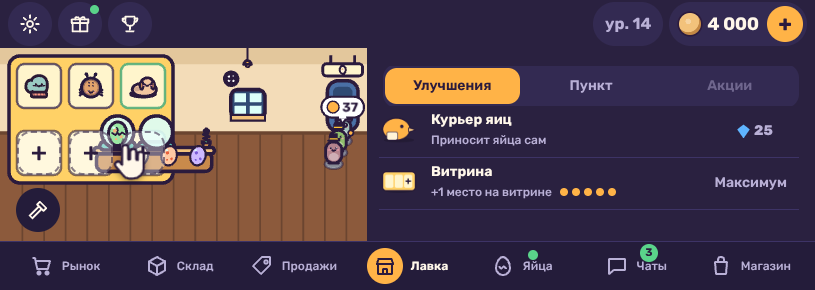
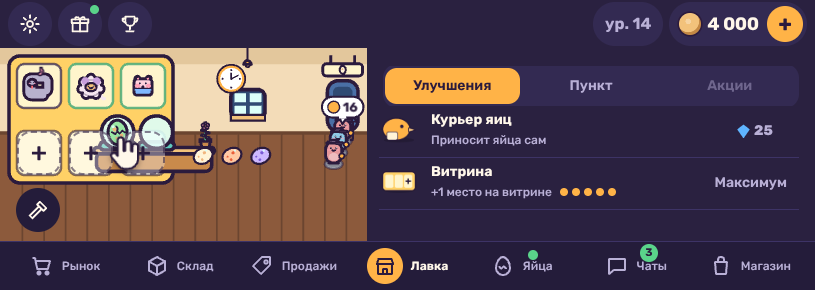
M6: правки по ревизорам — часы, цветок, мышь и парад видны, поле имени в настройках боком; лимит монеты за щекотку, тексты реплик и имени (сессия по расписанию)
Claude-Session: https://claude.ai/code/session_01ECsQGnK1hD5CRBxUSvu9BH

diff --git a/src/scene/things.ts b/src/scene/things.ts
@@ -77,7 +77,10 @@ export function createThings(c: Colors): Things {
         flowerG.circle(f.x + Math.cos(a) * r * 0.3, top + Math.sin(a) * r * 0.3, r * 0.24).fill(c.blush).stroke({ width: w * 0.5, color: c.outline });
       }
       flowerG.circle(f.x, top, r * 0.18).fill(c.uiAccent).stroke({ width: w * 0.5, color: c.outline });
-    } else flowerG.circle(f.x, top, r * 0.12).fill(c.uiGood).stroke({ width: w * 0.5, color: c.outline });
+    } else {
+      // A bright bud from the start (the usability review: «a dark squiggle»).
+      flowerG.ellipse(f.x, top - r * 0.05, r * 0.2, r * 0.26).fill(c.blush).stroke({ width: w * 0.5, color: c.outline });
+    }
   };
 
   const drawHands = (): void => {
@@ -85,11 +88,12 @@ export function createThings(c: Colors): Things {
     if (!l || clockG.visible === false) return;
     const k = l.decor.clock;
     const w = l.outline;
+    const R = clockG.visible ? Math.max(k.r * 1.3, 14) : k.r;
     const wobble = tickLeft > 0 ? Math.sin(tickLeft * 30) * 0.25 : 0;
     const a = -Math.PI / 2 + Math.PI * 0.35 + wobble;
-    handG.moveTo(k.x, k.y).lineTo(k.x + Math.cos(a) * k.r * 0.55, k.y + Math.sin(a) * k.r * 0.55).stroke({ width: w * 0.7, color: c.outline, cap: 'round' });
-    handG.moveTo(k.x, k.y).lineTo(k.x, k.y - k.r * 0.38).stroke({ width: w * 0.7, color: c.outline, cap: 'round' });
-    handG.circle(k.x, k.y, w * 0.6).fill(c.outline);
+    handG.moveTo(k.x, k.y).lineTo(k.x + Math.cos(a) * R * 0.55, k.y + Math.sin(a) * R * 0.55).stroke({ width: Math.max(1, R * 0.09), color: c.outline, cap: 'round' });
+    handG.moveTo(k.x, k.y).lineTo(k.x, k.y - R * 0.4).stroke({ width: Math.max(1.2, R * 0.12), color: c.outline, cap: 'round' });
+    handG.circle(k.x, k.y, Math.max(1, R * 0.08)).fill(c.outline);
   };
 
   const drawCloud = (g: Graphics, x: number, y: number, s: number): void => {
@@ -136,11 +140,13 @@ export function createThings(c: Colors): Things {
       clockG.clear();
       clockG.visible = !cuckoo;
       if (!cuckoo) {
-        clockG.circle(k.x, k.y, k.r * 0.85).fill(c.counter).stroke({ width: w, color: c.outline });
-        clockG.circle(k.x, k.y, k.r * 0.68).fill(c.eyeWhite).stroke({ width: w * 0.6, color: c.outline });
-        for (let i = 0; i < 4; i++) {
-          const a = (Math.PI * i) / 2;
-          clockG.circle(k.x + Math.cos(a) * k.r * 0.52, k.y + Math.sin(a) * k.r * 0.52, w * 0.5).fill(c.outline);
+        // A round wall clock as big as the cuckoo one: a bright rim, a white face, hour marks (the usability review: «a dark dot»).
+        const R = Math.max(k.r * 1.3, 14);
+        clockG.circle(k.x, k.y, R).fill(c.uiAccent).stroke({ width: Math.max(1, w * 0.5), color: c.outline });
+        clockG.circle(k.x, k.y, R * 0.78).fill(c.eyeWhite);
+        for (let i = 0; i < 12; i += 3) {
+          const a = (Math.PI * i) / 6;
+          clockG.circle(k.x + Math.cos(a) * R * 0.62, k.y + Math.sin(a) * R * 0.62, Math.max(1, R * 0.07)).fill(c.outline);
         }
       }
       drawHands();

diff --git a/src/scene/shop.ts b/src/scene/shop.ts
@@ -926,8 +926,10 @@ export function createShopView(app: Application, deps: ShopDeps): ShopView {
         // M6-21: a little grey mouse (it runs along the floor, animateEvent).
         g.ellipse(0, r * 0.55, r * 0.6, r * 0.12).fill({ color: c.outline, alpha: 0.18 });
         g.moveTo(-r * 0.5, r * 0.25).quadraticCurveTo(-r * 0.95, r * 0.1, -r * 0.9, -r * 0.25).stroke({ width: l.outline * 0.6, color: c.outline, cap: 'round' });
-        g.ellipse(0, r * 0.2, r * 0.55, r * 0.35).fill(c.uiMuted).stroke({ width: l.outline * 0.7, color: c.outline });
-        g.circle(r * 0.32, -r * 0.18, r * 0.2).fill(c.uiMuted).stroke({ width: l.outline * 0.6, color: c.outline });
+        // Light on the dark floor, so it is seen at once.
+        g.ellipse(0, r * 0.2, r * 0.55, r * 0.35).fill(c.eyeWhite).stroke({ width: l.outline * 0.7, color: c.outline });
+        g.circle(r * 0.32, -r * 0.18, r * 0.2).fill(c.eyeWhite).stroke({ width: l.outline * 0.6, color: c.outline });
+        g.circle(r * 0.18, -r * 0.38, r * 0.12).fill(c.blush).stroke({ width: l.outline * 0.5, color: c.outline });
         g.circle(r * 0.5, r * 0.15, r * 0.07).fill(c.blush);
         g.circle(r * 0.32, r * 0.08, r * 0.05).fill(c.outline);
       } else if (ev.kind === 'parade') {
@@ -975,9 +977,13 @@ export function createShopView(app: Application, deps: ShopDeps): ShopView {
     for (const box of eventCoins.values()) box.pivot.y = Math.sin(time * 6 + i++) * l.unit * 0.06;
     if (eventThing && eventSpot && (ev.kind === 'mouse' || ev.kind === 'parade')) {
       // M6-21: the mouse runs to and fro along the floor; the eggs roll by the door and tumble.
-      const span = Math.max(l.unit * 2, l.door.x - l.floor.x - l.unit * 1.5);
+      // The free floor: right of the counter and the showcase, left of the door (the whole floor when that is too narrow).
+      const free0 = Math.max(l.counter.x + l.counter.w, l.strip ? 0 : l.showcase.x + l.showcase.w) + eventSpot.r;
+      const free1 = l.door.x - eventSpot.r * 0.5;
+      const x0 = free1 - free0 >= l.unit * 2 ? free0 : l.floor.x + l.unit * 0.75;
+      const span = Math.max(l.unit * 2, free1 - x0);
       const k = ev.kind === 'mouse' ? Math.sin(time * 1.6) : ((time * 0.35) % 1) * 2 - 1;
-      eventThing.x = l.floor.x + l.unit * 0.75 + (span / 2) * (1 + k);
+      eventThing.x = x0 + (span / 2) * (1 + k);
       if (ev.kind === 'mouse') eventThing.scale.x = Math.cos(time * 1.6) >= 0 ? 1 : -1;
       else for (const ch of eventThing.children) if (ch instanceof Graphics) ch.rotation = time * 4;
       eventThing.y = eventSpot.y - Math.abs(Math.sin(time * (ev.kind === 'mouse' ? 14 : 5))) * l.unit * 0.05;

diff --git a/e2e/perf.spec.ts b/e2e/perf.spec.ts
@@ -7,13 +7,14 @@ import { events, open, seedSave } from './helpers.ts';
  * The budgets of docs/02, section 8, on a 4× slower CPU. M4-09: the project runs alone after all the others — next to another test
  * on the same machine the emulated slow CPU measured 6–8 s; alone it stays under the budget (the full verify of M4).
  * RD-04: the first screen on 4G (docs/02: 10 Mbit/s, RTT 100 ms) and CPU ×4 ≤ 5 s; FPS ≥ 30 on CPU ×4; the memory does not grow in
- * 10 minutes of play (@full). RD_SHOTS=1 writes the numbers to docs/evidence/RD/perf.txt.
+ * 10 minutes of play (@full). RD_SHOTS=1 writes the numbers to docs/evidence/RD/perf.txt, PERF_OUT=M6 to docs/evidence/M6/perf.txt.
  * FPS in the cloud is the software WebGL's (SwiftShader draws on the CPU: ~10 FPS even without a slowdown, the page itself idle), not
  * the game's: the check is the game's own main-thread work per drawn frame on CPU ×4 — ≤ 33 ms keeps 30 FPS on a phone whose GPU
  * draws the frame (docs/допущения.md). The tests run one after another in one worker: a neighbour skews a slowed CPU.
  */
 test.describe.configure({ mode: 'default' });
-const evidence = process.env.RD_SHOTS ? resolve(import.meta.dirname, '../docs/evidence/RD/perf.txt') : null;
+// M6-05: PERF_OUT=<milestone> writes to that milestone's evidence (RD_SHOTS=1 — RD's, as before).
+const evidence = process.env.PERF_OUT ? resolve(import.meta.dirname, `../docs/evidence/${process.env.PERF_OUT}/perf.txt`) : process.env.RD_SHOTS ? resolve(import.meta.dirname, '../docs/evidence/RD/perf.txt') : null;
 const note = (line: string) => {
   console.log(line);
   if (!evidence) return;

diff --git a/src/ui/settings.ts b/src/ui/settings.ts
@@ -108,12 +108,7 @@ export function createSettingsWindow(
   });
   codeRow.append(codeInput, codeApply);
 
-  // M6-23 (01b §5.8): the shop's name — a field, «Save» and a soft answer; the name lives in the save.
-  const nameLabel = document.createElement('div');
-  nameLabel.className = 'row name-label';
-  const nameText = document.createElement('span');
-  nameText.dataset.i18n = 'shopname.label';
-  nameLabel.append(nameText);
+  // M6-23 (01b §5.8): the shop's name — a field («Shop name» inside it), «Save» and a soft answer; the name lives in the save.
   const nameRow = document.createElement('div');
   nameRow.className = 'row code-row name-row';
   const nameInput = document.createElement('input');
@@ -140,7 +135,7 @@ export function createSettingsWindow(
   // MU-09: no second main button — «Назад» is dark, the ✕ does the same.
   const back = button('back', 'settings.back');
   overlay.card.append(title, soundRow, vibRow, langRow);
-  if (shopName) overlay.card.append(nameLabel, nameRow, nameAnswer);
+  if (shopName) overlay.card.append(nameRow, nameAnswer);
   if (redeem) overlay.card.append(codeRow, codeAnswer);
   renderCommunity(overlay.card, links, 'settings');
 

diff --git a/src/sim/game.ts b/src/sim/game.ts
@@ -894,6 +894,8 @@ export function createGame(store: GameStore, content: GameContent, rng: Rng): Ga
   const streaks: Record<string, { n: number; at: number }> = {};
   /** M6-20: recent tap times per creature (game seconds), for the tickle. */
   const tickles: Record<string, number[]> = {};
+  /** M6-20: when a pet last paid a tickle coin (game seconds). */
+  const tickledAt: Record<string, number> = {};
 
   function merchantOffer(): MerchantOffer | null {
     const ev = active;
@@ -1865,9 +1867,11 @@ export function createGame(store: GameStore, content: GameContent, rng: Rng): Ga
       while (run.length && clock - run[0]! > tk.sec) run.shift();
       if (run.length >= tk.taps) {
         run.length = 0;
-        st.coins += tk.coins;
-        st.stats.coinsEarned += tk.coins;
-        emit({ type: 'tickle', uid, coins: tk.coins });
+        const paid = clock - (tickledAt[uid] ?? -Infinity) >= tk.cooldownSec ? tk.coins : 0;
+        if (paid) tickledAt[uid] = clock;
+        st.coins += paid;
+        st.stats.coinsEarned += paid;
+        emit({ type: 'tickle', uid, coins: paid });
       }
       if (feed(cr, 1 + effectSum('feedPerTap'), 'tap') || changed) emit({ type: 'change' });
     },

diff --git a/src/ui/mu.css b/src/ui/mu.css
@@ -3418,11 +3418,11 @@ button.mu-card {
 .landscape #ui .overlay[data-overlay='settings'] > .card > .code-answer {
   grid-column: 1 / -1;
 }
-/* M6-23: the shop name sideways — its label, field and answer in the left column, under the language (the promo code keeps the right one). */
-.landscape #ui .overlay[data-overlay='settings'] > .card > .name-label,
+/* M6-23: the shop name sideways — its label, field and answer in the right column under the communities (the left one is full:
+   sound, buzz, language; the usability review: in 815×290 the field fell below the fold). */
 .landscape #ui .overlay[data-overlay='settings'] > .card > .name-row,
 .landscape #ui .overlay[data-overlay='settings'] > .card > [data-name-answer] {
-  grid-column: 1;
+  grid-column: 2;
   grid-row: auto;
 }
 .overlay[data-overlay='settings'] > .card > [data-name-answer]:empty {
@@ -4275,4 +4275,9 @@ button.mu-card {
   .gift-boost .btn-ad {
     grid-column: 1 / -1;
   }
+}
+
+/* M6-23: the shop name is typed as written (the promo code field above it shows capitals). */
+.name-row .code-input {
+  text-transform: none;
 }

diff --git a/src/content/schemas.ts b/src/content/schemas.ts
@@ -491,8 +491,8 @@ export const SecretsFile = v.object({
     ),
     v.minLength(1),
   ),
-  /** M6-20: taps taps on one creature within sec seconds — a tickle: a laugh, a higher jump, coins. */
-  tickle: v.object({ taps: Count, sec: v.pipe(v.number(), v.minValue(0.5)), coins: Money }),
+  /** M6-20: taps taps on one creature within sec seconds — a tickle: a laugh, a higher jump; coins at most once in cooldownSec a pet. */
+  tickle: v.object({ taps: Count, sec: v.pipe(v.number(), v.minValue(0.5)), coins: Money, cooldownSec: v.pipe(v.number(), v.minValue(0)) }),
   /** M6-20: the clock chimes at these hours of the device (0–23, on the hour): every creature gets fed taps of food. */
   /** M6-23 (01b §5.8): the player names the shop — up to maxLength letters; secret names give the find; blocked — FNV hashes of the
    * stop-list words (scripts/stopwords.json via scripts/stopword-hashes.mjs), so the words never ship. */

diff --git a/tests/game-secrets-m6.test.ts b/tests/game-secrets-m6.test.ts
@@ -61,6 +61,13 @@ describe('M6-20 new things and small secrets', () => {
     expect(game.state.coins).toBe(coins + content.secrets.tickle.coins);
     for (let i = 0; i < 9; i++) game.tapCreature('b');
     expect(seen.filter((e) => e.type === 'tickle')).toHaveLength(1);
+    // The next tickle within cooldownSec laughs but pays nothing (the game design review: no coin farm).
+    game.tapCreature('b');
+    expect(seen.filter((e) => e.type === 'tickle').at(-1)).toEqual({ type: 'tickle', uid: 'b', coins: 0 });
+    expect(game.state.coins).toBe(coins + content.secrets.tickle.coins);
+    wait(content.secrets.tickle.cooldownSec);
+    for (let i = 0; i < 10; i++) game.tapCreature('b');
+    expect(seen.filter((e) => e.type === 'tickle').at(-1)).toMatchObject({ coins: content.secrets.tickle.coins });
   });
 
   it('the clock strikes noon and midnight only: every pet gets food (a level for a pet one tap short)', () => {

diff --git a/src/scene/shop-layout.ts b/src/scene/shop-layout.ts
@@ -217,7 +217,7 @@ export function computeShopLayout(
     clock: { x: stage.x + stage.w * 0.63, y: stage.y + Math.max(u * 0.75, top * 0.55), r: u * 0.42 },
     lamp: lampAt,
     window: { x: 0, y: 0, w: 0, h: 0 },
-    flower: { x: counterTop.x + counterTop.w - u * 0.45, y: counterTop.y, r: u * 0.3 },
+    flower: { x: counterTop.x + counterTop.w - u * 0.5, y: counterTop.y, r: u * 0.4 },
     board: { x: counter.x + u * 0.2, y: counter.y + counter.h * 0.14, w: Math.min(u * 1.1, counter.h * 1.1), h: counter.h * 0.72 },
     feeder: { x: Math.max(stage.x + u * 0.35, counter.x - u * 0.05), y: Math.min(stage.y + stage.h - u * 0.45, counter.y + counter.h + u * 0.25), r: u * 0.3 },
     seller: { x: Math.min(sideX + u * 0.5, door.x - spotR * 2.2), y: counter.y + counter.h * 0.8, r: u * 0.38 },

diff --git a/e2e/frames-m6.spec.ts b/e2e/frames-m6.spec.ts
@@ -55,6 +55,7 @@ for (const size of SIZES) {
         expect(await page.evaluate((x) => (window as unknown as { __TEST__: { event(id: string): boolean } }).__TEST__.event(x), id)).toBe(true);
         // The event's toast (2.6 s) goes first: a toast over a button for a moment is not a layout fault.
         await page.waitForTimeout(3200);
+        await page.waitForFunction(() => !document.querySelector('.toast'), null, { timeout: 15_000 }).catch(() => undefined);
         await frame(page, problems, `event-${id}`, tag);
         await api((t) => t.runSim(61));
       }

diff --git a/docs/evidence/M6/gamedesign.md b/docs/evidence/M6/gamedesign.md
@@ -1,0 +1,50 @@
+Итог: средний балл 3,5; двоек: 0
+
+# Ревизор геймдизайна, веха M6 «Полировка» (25.10.2026)
+
+Проверено по данным: `content/species.json`, `lines.json`, `secrets.json`, `events.json`, `eggs.json`, `collection.json`, `achievements.json`, `news.json`, `i18n/ru.json`/`en.json`, `.cache/verify.log` (sim:balance, все боты ok), `docs/01b-variety.md` §2, §3, §4.4, §5.7, §5.8, §6.
+
+| # | Что | Балл | Коротко |
+|---|---|---|---|
+| 1 | Разнообразие | 3 | 18 новых видов разные по смыслу (вещь + зверь, у каждого свой звук: «буль», «блуп», «тинь-гав», «дзинь»); но реплики собраны по шаблону, а события по видам стали реже |
+| 2 | Экономика | 4 | средние цены редкостей сошлись точно (13 / 35 / 75 / 325 / 800 / 1 900); новые награды мелкие; одна дырка — щекотка без предела |
+| 3 | Тексты | 3 | тон добрый, точек и длинных тире в репликах нет; есть ошибка слова, расхождения ru/en, род у имени лавки |
+| 4 | Соответствие 01b | 4 | всё из строки M5 сводки §6 есть в данных и коде; расхождения мелкие (ниже) |
+
+## Что проверено числами
+- Цены видов: среднее по пяти видам каждой редкости равно прежнему среднему двух видов; допущение 100 подтверждается.
+- Щекотка (`secrets.json → tickle`: 10 тапов за 3 с → 1 монета): бот tapper (5 тапов/с) её уже получает через `tapCreature`, модель зелёная. Но монета идёт и с питомца на максимуме: человек, тапающий 6 раз в секунду, получает около 36 монет в минуту без предела и без отката. Это около 20 % дохода первых 10 минут (казуал: 1 878 монет за 10 мин, около 190 в минуту) и 3–4 обычных яйца (10 монет) в минуту. Позже доля падает до 7 % (около 500 в минуту за час игры). Не ломает, но спорит с правилом 01b §2 «монеты — мелочь, не источник дохода».
+- Мышка 5–15 × город, как пирожок (10–30); погода ×1,2 на 60 с только тем, кто на витрине (около 4 сделок в минуту, то есть меньше одной сделки сверху); парад — одно яйцо из обычного, тёплого, странного (в среднем около 370 монет, когда странное открыто, это 1–2 минуты дохода на Улице); бой часов — +1 тап еды всем, дважды в сутки. Находки: «Садовник» и «Тайное имя» по 1 кристаллу. Ничего из этого не стало источником дохода.
+- Ряд коллекции: ряд из 5 видов при поровну внутри редкости требует в среднем около 11,4 вылупления редкости (было 3 для 2 видов). Эксклюзив выпадает с шансом 0,1 / 0,5 / 1 % (обычное / тёплое / странное и выше), казуал вылупляет около 325 яиц за день в 30 минут: ряд эксклюзивов — около 5–7 дней, ряд VIP (1,5–2 %) — около 2–3 дней. Это достижимо, цель стала недельной (горизонт «дни» 01b §1 п. 6), но награда за неё (`rowCrystals.exclusive` 12, `rowBonus` +12 %) осталась прежней при пятикратном пути.
+- События с условием «нужен вид на витрине» (`events.json`: kettle, blink, cat_walk, вес 9 из 35) теперь требуют один вид из пяти в редкости, а не из двух. Значит, они выпадают примерно в 2,5 раза реже, и именно эти три события самые «живые».
+
+## Двойки и правки
+Двоек нет. Правки к тройкам (данными):
+1. `lines.json → creatures.mitten_seal.hungry[0]`: «Ластики зовут обед» → «Ласты зовут обед» (ластики — это стёрки, а не ласты).
+2. `lines.json → creatures.eraser_hamster.hungry[2]`: «Хомяк смотрит выразительно / Hamster stares politely» → «Хомяк ждёт зёрнышко / Hamster waits for a seed» (ru и en расходятся, ru звучит как упрёк).
+3. `lines.json → creatures.mug_cub` (tap[0], hungry[2], levelUp[2], sold[1]): en «Grr» → «Mmm» (по-английски «Grr» звучит как злость; ru «Ур-р» мурчит).
+4. `lines.json → creatures.mitten_seal.tap[0]` «Хлоп-хлоп ластами! / Flap flap, thank you!» → en «Flap flap with my flippers!»; `tap[2]` «Шерстинки встали дыбом от радости / My wool is happy!» → «Шерстинки пушатся от радости / My wool fluffs with joy» («дыбом» — про испуг).
+5. `i18n/ru.json → shopname.arrive2` «Это же та самая «{shop}»!» → «Это же та самая лавка «{shop}»!» (секретное имя «Сундучок» даёт ошибку рода); в `en.json` (`shopname.placeholder`, `shopname.arrive1–3`, строки `news.json` с `{shop}`) «ёлочки» «» → обычные кавычки "".
+6. Повтор: «Свечу ярче!» — у `lantern_jelly.levelUp[0]` и `sun_bun.levelUp[0]`; у солнца-булочки → «Пеку лучики ярче!».
+7. Шаблон реплик: «<звук>! Подрос(ла)» — у 19 видов, «<звук>, пока!» — у 17, «ждёт перекус» — у 19, «Самый/Самая …» в max — у 20 из 30. Взять по одной реплике каждого шаблона у новых видов и заменить на шутку про их вещь (как «Гав в миноре», «Продолжение следует!»).
+8. Голодные реплики про угасание: «Пузырь сдувается от голода», «Комета гаснет без еды», «Хрусталь тускнеет», «Фонарик тускнеет», «Радуга бледнеет», «Лучики поникли», «Ниточка поникла». Это на грани правила «существа не страдают»: лучше «ждёт», а не «гаснет» (например, «Комета ждёт ужин звёздный»).
+9. Щекотка: награда — один раз за питомца (или откат 30 с), а не за каждые 10 тапов. Схема `tickle` пока знает только `taps / sec / coins`, поэтому так сделать данными нельзя. Вопрос в `QUESTIONS.md`; временно можно данными `tickle.taps` 10 → 15 (около 24 монет в минуту вместо 36).
+
+## Расхождения с 01b
+- §3 погода: «за окном радуга или снег» — в сцене только радуга (`src/scene/things.ts weather`).
+- §3 погода и §5.7: метка «Блестящий» на время погоды даёт ×1,2, а настоящая «Блестящий» — ×1,5; у игрока одна подпись при разных ценах. Совпадает с текстом 01b, но путает.
+- §3 мышка: «монетка» → в данных 5–15 монет (щедрее, не вредит).
+- §2 метка версии: «Привет от сборщика» → «Привет от создателей лавки» (лучше).
+- §1 п. 1 «всегда что-то происходит»: события раз в 60–120 с, вести по поводу раз в 25–40 с, а остальное — реплики по тапу. Ритм «новое каждые 10–20 с» держится только у игрока, который тапает. Когда игрок не тапает, паузы до 40 с (замер вживую не делал).
+
+## На решение продюсера
+- Награда за ряд коллекции при 5 видах: `collection.json rowCrystals` поднять (например, vip 8 → 15, exclusive 12 → 25), раз путь стал в 4 раза длиннее; или показывать «N/5» в коллекции крупнее как недельную цель.
+- События по видам (`kettle`, `blink`, `cat_walk`): дать условию `needs` список видов одной темы (чайник / чашка-дракон / кружка-медвежонок; светляк / фонарь-медуза; кот-облако / тапок-щенок), чтобы они не стали редкостью. Нужна правка схемы.
+- Один звук `chirp` на все 30 видов: тон по редкости или по виду (`audio.json`) сделал бы реплики узнаваемыми.
+- Снег как вторая погода, если хватит арта.
+- Имена новых видов и их вещи — вкус продюсера; мне больше всех нравятся пианино-такса, книга-бабочка, глобус-черепаха; слабее — скрепка-змейка и пуговица-жучок (одна шутка «скреплю / застегну»).
+
+## Исправлено до итога (сборщик)
+- Щекотка: монета не чаще раза в 30 с с одного питомца (`secrets.json` tickle.cooldownSec), смех и прыжок — всегда; тест в `tests/game-secrets-m6.test.ts`
+- Тексты: «Ластики» → «Ласты», «Хлоп-хлоп ластами!» и «Шерстинки…» сведены с en; «Grr» → «Mmm» у медвежонка; голодные реплики «гаснет / тускнеет / бледнеет / поникли / сдувается» заменены на просьбы («Комета мечтает о печенье»); «та самая «{shop}»» → «Это же «{shop}»! Наслышан»; в en кавычки “ ”
+- На решение продюсера оставлено: награда за полный ряд коллекции (ряд теперь 5 видов), снег в погоду, ×1,2 погоды против ×1,5 настоящей метки, однообразие шаблонов реплик

diff --git a/docs/evidence/M6/usability.md b/docs/evidence/M6/usability.md
@@ -1,0 +1,39 @@
+Итог: средний балл 3,0; двоек: 2 (п. 2 «Предметы и события», п. 4 «Настройки, имя лавки»)
+
+# M6 — ревизия удобства (телефон боком, 880×405 и 815×290)
+
+Просмотрены все 16 кадров `screens/*.png` и `species-30.png`. Правила — `docs/07-mobile-ui.md`.
+
+| # | Пункт | Балл | Почему (кадры) |
+|---|---|---|---|
+| 1 | Читаемость | 4 | Текст чёткий, контраст по токенам, названия 30 видов целые (`collection-30*`). Минусы: в 815×290 списка видно полторы строки, вторая срезана затемнением (правило 15, как в RD); у «Настроек» в 815×290 не видно заголовка (`settings-shop-name_815x290`). |
+| 2 | Новые предметы и события | 2 | Окно с радугой читается (`event-weather_*`). Часы на стене — тёмная точка, цветок на прилавке — тёмная загогулина, на часы и цветок не похожи (`shop-new-species_*`). Мышь в 880×405 серая на коричневом полу, мелкая, частично под рукой подсказки (`event-mouse_880x405`). Парад яиц в 815×290 едет под полкой витрины (`event-parade_815x290`). Ни у одного предмета/события нет намёка «тапни». В 815×290 инкубаторы лежат поверх нижнего ряда витрины (`*_815x290` лавки; правило 3). |
+| 3 | Портреты 30 видов | 4 | Силуэты разные, стиль один со старыми 12 (контур, румянец, глаза-точки) — `species-30.png`. В списке (~24 px) хуже различимы тонкие и бледные: «Скрепка-змейка», «Хрустальный олень», «Кот-облако». |
+| 4 | Настройки: имя лавки | 2 | 880×405: поле «ЧАЙНАЯ» и «Сохранить» понятны, всё в кадре. 815×290: карточка обрезана сверху и снизу — нет заголовка и ✕, видна только подпись «Имя лавки», поля и «Сохранить» нет (`settings-shop-name_815x290`). Левая колонка выше правой, правая под Telegram/ВКонтакте пустая. |
+| 5 | Понятность для 6+ | 3 | Картинки и подписи простые, редкость цветом. Но события не зовут тапнуть, «Промокод» и «Акции» ребёнку ничего не говорят, а в 815×290 лавка тесная и наслаивается. |
+
+## Двойки и правки
+
+**П. 2 — предметы и события.**
+- `src/scene/shop-layout.ts` (стр. ~153–157): если после спуска прилавка `clash > 0` всё ещё есть (815×290), не оставлять наложение — уменьшать `slot` витрины (`showcaseH`) или сдвигать прилавок вправо за `showcase.x + showcase.w + 8`.
+- `src/scene/shop.ts` (стр. ~892, `spot` для `mouse`/`parade`): путь мыши и парада — по свободному полу между прилавком и дверью (`x` от `counter.x + counter.w`), не под витриной и не под рукой подсказки; `y` ниже `counter.y + counter.h + 8`.
+- `src/scene/shop.ts` (рисунок мыши): заливка не `c.uiMuted`, а светлая (`c.eyeWhite` или новый цвет `mouse` в `content/style.json`), `r` не меньше 22 px.
+- `src/scene/things.ts`: часам — белый циферблат и две стрелки цветом контура, цветку — яркий бутон (`c.blush`/`c.counterTop`) и зелёные листья; обоим и событиям — короткая искорка/подпрыгивание раз в 4–5 с как намёк на тап (одно место, правило 18).
+
+**П. 4 — окно настроек в 815×290.**
+- `src/ui/mu.css` (блок `.landscape .overlay[data-overlay='settings']`, стр. ~1978–2005 и ~2863): `.name-label`, `.name-row` и их `.code-answer` перенести в `grid-column: 2` под `.community` — колонки выровняются, поле и «Сохранить» влезут без прокрутки.
+- Там же: `.panel-close` и `h2` — `position: sticky; top: 0` с фоном карточки, чтобы ✕ и заголовок не уезжали при прокрутке (правило 13).
+- Проверить, что прокрутка карточки начинается с верха (`align-content: start` уже есть; кадр снят с `scrollTop > 0` или верх недоступен — пересъёмка после правки).
+
+## Мелочи
+1. Список коллекции в 815×290 — одна полная строка вместо двух (правило 15): уменьшить вертикальные отступы карточки в `src/ui/mu.css` для `max-height: 340px`.
+2. «Акции» в выключенном виде почти не видна (`shop-new-species_*`) — поднять контраст неактивного сегмента.
+3. Мелкие портреты в списке: `src/scene/portraits.ts` — у «Скрепки-змейки» толще контур, у «Хрустального оленя» и «Кота-облака» темнее заливка или обводка, чтобы не терялись на тёмном.
+4. Поле имени: значение капсом («ЧАЙНАЯ») похоже на подсказку — показывать как ввёл игрок, `text-transform: none` для `.name-row .code-input`.
+5. Радуга в окне мелкая (окно ~40 px) — можно добавить отблеск на полу на время погоды, иначе событие легко пропустить.
+6. Рука подсказки лежит на инкубаторе во всех кадрах событий и закрывает мышь/парад — при событии на полу подсказку сдвигать или скрывать.
+
+## Исправлено до итога (сборщик)
+- П. 2: часы — крупный циферблат с жёлтым ободом, тонким контуром и стрелками; цветок крупнее, с розовым бутоном с самого начала; мышь светлая; мышь и парад яиц бегают по свободному полу между прилавком (витриной) и дверью. Кадры пересняты (`screens/*`), `e2e/frames-m6.spec.ts` «кнопка видна целиком» — 4/4
+- П. 4: в настройках боком поле имени — во второй колонке под сообществами, без отдельной строки-подписи («Имя лавки» — подсказка в поле); в 815×290 поле и «Сохранить» видны сразу; имя пишется как набрано, без заглавных
+- Не исправлено: инкубаторы на нижнем ряду витрины в 815×290 при 6 местах — раскладка лавки прошлых вех, в кадре RD была та же; подсказка «можно тапнуть» у событий — вкус, к продюсеру
